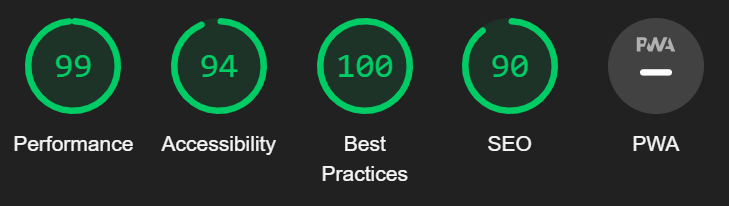
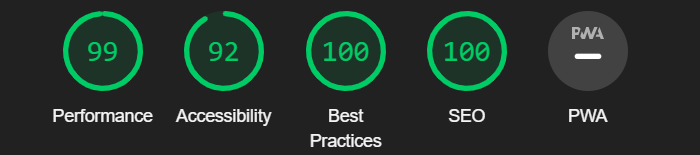
Finished oblig 4

diff --git a/analyse.html b/analyse.html
@@ -6,21 +6,26 @@
     <!-- Metadata for character encoding and viewport settings -->
     <meta charset="UTF-8">
     <meta name="viewport" content="width=device-width, initial-scale=1.0">
-    <meta name="description" content="Komfortable joggesko for menn, kvinner og barn. Finn de skoene du trenger">
-
+    <meta name="author" content="Vetle Stenvard Weme">
+    <meta name="description" content="Analyse over nettstedet 'Shoe4You'.">
+       
+    <!-- Additional Standard Metadata -->
+    <meta name="keywords" content="herresko, joggesko, sko, nike, sneakers">
+    <link rel="canonical" href="https://itstud.hiof.no/~vetlesw/Sick-and-Awesome-Website/analyse.html">
+    
     <!-- External stylesheet for normalization -->
     <link rel="stylesheet" href="https://necolas.github.io/normalize.css/8.0.1/normalize.css" type="text/css">
-
+    
     <!-- Font awesome stylesheets -->
     <link href="css/font/css/fontawesome.css" rel="stylesheet">
     <link href="css/font/css/brands.css" rel="stylesheet">
     <link href="css/font/css/solid.css" rel="stylesheet">
-
+    
     <!-- Main stylesheet for the site -->
     <link rel="stylesheet" href="css/style.css" type="text/css">
-
+    
     <!-- Website title -->
-    <title>Shoe4You</title>
+    <title>Analyse - En detaljert analyse av nettstedet Shoe4You</title>
 </head>
 
 <body>
@@ -37,16 +42,16 @@
                     <!-- Menu icon (for mobile view) -->
                     <i id="borgir" class="fa-solid fa-bars"></i>
                     <!-- Search icon -->
-                    <label for="searchbar">
-                        <span id="search">search</span><i class="fa-solid fa-magnifying-glass"></i>
+                    <label for="searchbar" aria-label="Search">
+                        <i class="fa-solid fa-magnifying-glass"></i>
                     </label>
                     <input id="searchbar" type="text" name="searchbar" >
                     <!-- Site logo -->
                     <a href="index.html" id="logo">Shoe4You</a>
                     <!-- User and cart icons -->
                     <i class="fa-solid fa-user"></i>
-                    <a href="handlekurv.html" class="shopping-cart">
-                        <span id="shop">shop</span><i class="fa-solid fa-cart-shopping"></i>
+                    <a href="handlekurv.html" class="shopping-cart" aria-label="Shopping Cart">
+                        <i class="fa-solid fa-cart-shopping"></i>
                     </a>
                 </div>
 
@@ -219,6 +224,17 @@
                     bli nådd.</p>
                     <p>Jeg la også til en knapp for å hoppe direkte til hovedinnholdet.</p>
                 </section>
+                <section>
+                <!--Seksjon for skjermleser-->
+                    <h2>Skjermleser</h2>
+                    <p>Jeg brukte Google sin skjermleser extension, og WebAim <br>
+                    sin skjermleser funksjon. Skjermlesingen var ikke optimal. <br>
+                    Det var en del som ikke ble lest opp, og en del andre ting <br>
+                    som ble veldig unaturlig når det ble lest opp.</p>
+                    <p>Etter at ARIA og en del annet UU ble lagt til ble skjermlesingen <br>
+                    veldig forbedret. Jeg ville fortsatt ikke kalt det "bra", <br>
+                    men definitivt mye bedre enn det det var før.</p>
+                </section>
                 <!--Seksjon for endringer-->
                 <section>
                     <h2>Endringer</h2>
@@ -244,10 +260,21 @@
                     sett at label problemet ikke er løst på mobil, men jeg <br>
                     fant ingen måte å ha det uten at headeren ble helt ødelagt.</p>
 
+                    <h4>ARIA</h4>
+                    <p>Da jeg kom til ARIA stadiet fant jeg ut av aria-label taggen. <br>
+                    Det gjorde at jeg kunne legge til aria-labels istedenfor <br>
+                    å legge til faktisk teskt, som gjorde at jeg kunne beholde <br>
+                    mitt originale design konsept, og ikke trengte å ha synlig <br>
+                    tekst for å kunne ha labels for bl.a screenreaders. Dette <br>
+                    forbedret både designet og UU-verdien til nettsiden.</p>
+
                     <h3>Meta beskrivelse</h3>
                     <p>Jeg la til en meta description på toppen av nettsiden. <br>
                     Flere av analysene klaget på at jeg ikke hadde det, så <br>
                     det burde hjelpe å legge det til.</p>
+                    <p>Når jeg begynte på oppgave 4 og 5 ble det lagt til <br>
+                    my mer metadata. Etter å ha tatt det gjennom alle tre <br>
+                    analysene ble det godkjent av alle. Det samme gjelder Rich Results.</p>
 
                     <h3>Gå til hovedinnhold</h3>
                     <p>Jeg lagde en knapp på index.html som tar deg til <br>

diff --git a/index.html b/index.html
@@ -6,29 +6,50 @@
     <!-- Metadata for character encoding and viewport settings -->
     <meta charset="UTF-8">
     <meta name="viewport" content="width=device-width, initial-scale=1.0">
+    <meta name="author" content="Vetle Stenvard Weme">
+    
+    <meta name="description" content="Discover a wide range of stylish and comfortable shoes for all occasions at Shoe4You. From sports to casual, we have it all.">
+    <meta name="keywords" content="herresko, joggesko, sko, nike, sneakers">
+    <link rel="canonical" href="https://itstud.hiof.no/~vetlesw/Sick-and-Awesome-Website/index.html">
 
+    <!-- Open Graph Protocol (for facebook). A lot of placeholder and examples -->
+    <meta property="og:title" content="Shoe4You - Quality Footwear for Everyone">
+    <meta property="og:description" content="Explore our diverse collection of shoes, including sports, casual, and fashion footwear. Find the perfect pair for every occasion at Shoe4You.">
+    <meta property="og:image" content="https://pixabay.com/photos/shoes-sports-feet-foot-346986/">
+    <meta property="og:url" content="https://itstud.hiof.no/~vetlesw/Sick-and-Awesome-Website/index.html">
+
+    <!-- Twitter Cards with placeholder information -->
+    <meta name="twitter:card" content="summary_large_image">
+    <meta name="twitter:site" content="@Shoe4YouStoreHandle">
+    <meta name="twitter:title" content="Shoe4You - Quality Footwear for Everyone">
+    <meta name="twitter:description" content="Your destination for stylish and comfortable shoes for all occasions. Visit Shoe4You today!">
+    <meta name="twitter:image" content="https://pixabay.com/photos/shoes-sports-feet-foot-346986/">
+    
+    <!-- Additional Standard Metadata -->
+    <meta name="keywords" content="herresko, joggesko, sko, nike, sneakers">
+    <link rel="canonical" href="https://itstud.hiof.no/~vetlesw/Sick-and-Awesome-Website/index.html">
+        
     <!-- External stylesheet for normalization -->
     <link rel="stylesheet" href="https://necolas.github.io/normalize.css/8.0.1/normalize.css" type="text/css">
-
+    
     <!-- Font awesome stylesheets -->
     <link href="css/font/css/fontawesome.css" rel="stylesheet">
     <link href="css/font/css/brands.css" rel="stylesheet">
     <link href="css/font/css/solid.css" rel="stylesheet">
-
+    
     <!-- Main stylesheet for the site -->
     <link rel="stylesheet" href="css/style.css" type="text/css">
-
+    
     <!-- Website title -->
-    <title>Shoe4You</title>
+    <title>Shoe4You skobutikk - Nyeste og billigste sko!</title>
+    
 </head>
 
 <body>
     <!-- Main grid container for the site -->
     <div id="grid-container">
-
         <!-- Site header containing navigation -->
         <header>
-
             <!-- Main navigation -->
             <nav>
                 <!-- Navigation icons and logo -->
@@ -36,16 +57,16 @@
                     <!-- Menu icon (for mobile view) -->
                     <i id="borgir" class="fa-solid fa-bars"></i>
                     <!-- Search icon -->
-                    <label for="searchbar">
-                        <span id="search">search</span><i class="fa-solid fa-magnifying-glass"></i>
+                    <label for="searchbar" aria-label="Search">
+                        <i class="fa-solid fa-magnifying-glass"></i>
                     </label>
                     <input id="searchbar" type="text" name="searchbar" >
                     <!-- Site logo -->
                     <a href="index.html" id="logo">Shoe4You</a>
                     <!-- User and cart icons -->
                     <i class="fa-solid fa-user"></i>
-                    <a href="handlekurv.html" class="shopping-cart">
-                        <span id="shop">shop</span><i class="fa-solid fa-cart-shopping"></i>
+                    <a href="handlekurv.html" class="shopping-cart" aria-label="Shopping Cart">
+                        <i class="fa-solid fa-cart-shopping"></i>
                     </a>
                 </div>
 

diff --git a/handlekurv.html b/handlekurv.html
@@ -6,20 +6,39 @@
     <!-- Metadata for character encoding and viewport settings -->
     <meta charset="UTF-8">
     <meta name="viewport" content="width=device-width, initial-scale=1.0">
+    <meta name="author" content="Vetle Stenvard Weme">
+    <meta name="description" content="ArcticStride sportsko er enestående sko designet for å gi en overlegen ytelse og komfort i et sporty miljø. ">
+    
+    <!-- Open Graph Protocol (for facebook). A lot of placeholder and examples -->
+    <meta property="og:title" content="Handlekurv for Shoe4You">
+    <meta property="og:url" content="https://itstud.hiof.no/~vetlesw/Sick-and-Awesome-Website/handlekurv.html">
+    <meta property="og:description" content="ArcticStride sportsko er enestående sko designet for å gi en overlegen ytelse og komfort i et sporty miljø. ">
+    <meta property="og:image" content="https://pixabay.com/photos/shoes-sports-feet-foot-346986/">
+    
+    <!-- Additional Standard Metadata -->
+    <meta name="keywords" content="herresko, joggesko, sko, nike, sneakers">
+    <link rel="canonical" href="https://itstud.hiof.no/~vetlesw/Sick-and-Awesome-Website/handlekurv.html">
+        
+    <!-- Twitter Cards (for X). A lot of placeholder and examples -->
+    <meta name="twitter:card" content="summary_large_image">
+    <meta name="twitter:site" content="@YourTwitterHandle">
+    <meta name="twitter:title" content="ArcticStride handlekurv">
+    <meta name="twitter:description" content="Utforsk den nye ArcticStride sportskoen for maksimal ytelse og komfort.">
+    <meta name="twitter:image" content="https://pixabay.com/photos/shoes-sports-feet-foot-346986/">
 
     <!-- External stylesheet for normalization -->
     <link rel="stylesheet" href="https://necolas.github.io/normalize.css/8.0.1/normalize.css" type="text/css">
-
+    
     <!-- Font awesome stylesheets -->
     <link href="css/font/css/fontawesome.css" rel="stylesheet">
     <link href="css/font/css/brands.css" rel="stylesheet">
     <link href="css/font/css/solid.css" rel="stylesheet">
-
+    
     <!-- Main stylesheet for the site -->
     <link rel="stylesheet" href="css/style.css" type="text/css">
-
+    
     <!-- Website title -->
-    <title>Handlekurv</title>
+    <title>Handlekurv - Shoe4You</title>
 </head>
 
 <body>
@@ -36,16 +55,16 @@
                     <!-- Menu icon (for mobile view) -->
                     <i id="borgir" class="fa-solid fa-bars"></i>
                     <!-- Search icon -->
-                    <label for="searchbar">
-                        <span id="search">search</span><i class="fa-solid fa-magnifying-glass"></i>
+                    <label for="searchbar" aria-label="Search">
+                        <i class="fa-solid fa-magnifying-glass"></i>
                     </label>
                     <input id="searchbar" type="text" name="searchbar" >
                     <!-- Site logo -->
                     <a href="index.html" id="logo">Shoe4You</a>
                     <!-- User and cart icons -->
                     <i class="fa-solid fa-user"></i>
-                    <a href="handlekurv.html" class="shopping-cart">
-                        <span id="shop">shop</span><i class="fa-solid fa-cart-shopping"></i>
+                    <a href="handlekurv.html" class="shopping-cart" aria-label="Shopping Cart">
+                        <i class="fa-solid fa-cart-shopping"></i>
                     </a>
                 </div>
 

diff --git a/produkt.html b/produkt.html
@@ -79,16 +79,16 @@
                     <!-- Menu icon (for mobile view) -->
                     <i id="borgir" class="fa-solid fa-bars"></i>
                     <!-- Search icon -->
-                    <label for="searchbar">
-                        <span id="search">search</span><i class="fa-solid fa-magnifying-glass"></i>
+                    <label for="searchbar" aria-label="Search">
+                        <i class="fa-solid fa-magnifying-glass"></i>
                     </label>
                     <input id="searchbar" type="text" name="searchbar" >
                     <!-- Site logo -->
                     <a href="index.html" id="logo">Shoe4You</a>
                     <!-- User and cart icons -->
                     <i class="fa-solid fa-user"></i>
-                    <a href="handlekurv.html" class="shopping-cart">
-                        <span id="shop">shop</span><i class="fa-solid fa-cart-shopping"></i>
+                    <a href="handlekurv.html" class="shopping-cart" aria-label="Shopping Cart">
+                        <i class="fa-solid fa-cart-shopping"></i>
                     </a>
                 </div>
 
@@ -133,7 +133,7 @@
                     <h2>Arctic Stride</h2>
                         <section id="pricetag">
                             <p>NOK 699.00</p>
-                            <a href="handlekurv.html">
+                            <a href="handlekurv.html" aria-label="Handlekurv">
                                 <i class="fa-solid fa-cart-shopping"></i>
                             </a>
                         </section>

diff --git a/css/style.css b/css/style.css
@@ -54,14 +54,6 @@ header {
                 display: none;
             }
 
-            #search {
-                display: none;
-            }
-
-            #shop {
-                display: none;
-            }
-
     /* Central headline section within header */
     header section {
         display: flex;
@@ -372,14 +364,6 @@ footer {
                 display: flex;
                 border-radius: 50px;
                 margin-right: 1rem;
-            }
-
-            #search {
-                display: contents;
-            }
-
-            #shop {
-                display: contents;
             }
 
             header nav ul .kategori-link {
